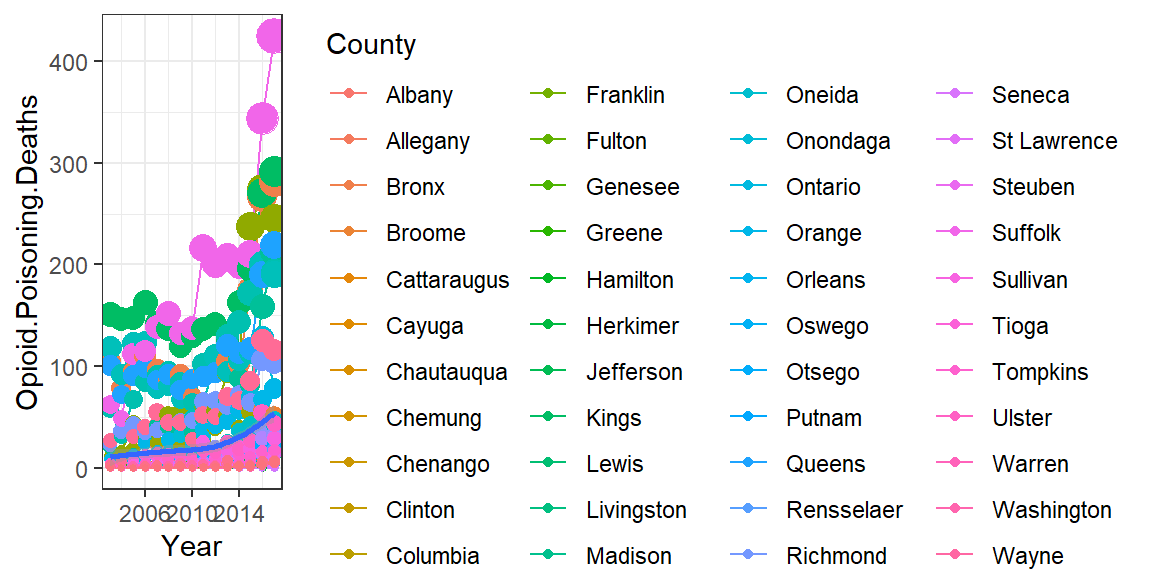
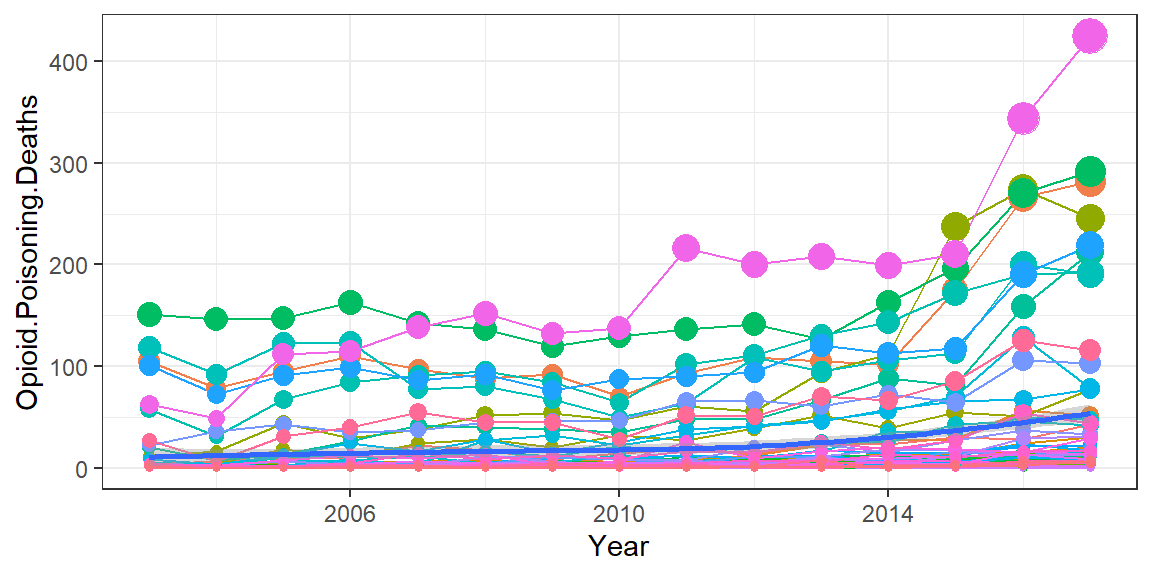
first_draft

diff --git a/docs/index.html b/docs/index.html
@@ -392,6 +392,7 @@ div.tocify {
 <pre class="r"><code>library(tidyverse)
 library(tidycensus)
 library(leaflet)
+library(mapview) 
 
 
 knitr::opts_chunk$set(cache=TRUE)  # cache the results for quick compiling</code></pre>
@@ -442,8 +443,9 @@ str(vital)</code></pre>
 <pre class="r"><code>ggplot (data = vital) +
     geom_line(aes(x = Year,  y = Opioid.Poisoning.Deaths, group = County, col = County)) + 
     geom_point(aes(x = Year,  y = Opioid.Poisoning.Deaths, group = County, col = County, size = Opioid.Poisoning.Deaths)) +
-    geom_smooth(aes(x = Year,  y = Opioid.Poisoning.Deaths))+
-    theme_bw()</code></pre>
+    geom_smooth(aes(x = Year,  y = Opioid.Poisoning.Deaths)) +
+    theme_bw() +
+    theme(legend.position = &quot;none&quot;)</code></pre>
 <pre><code>## `geom_smooth()` using method = &#39;loess&#39; and formula &#39;y ~ x&#39;</code></pre>
 <div class="figure">
 <img src="index_files/figure-html/unnamed-chunk-5-1.png" alt="Map of completely random data" width="576" />
@@ -451,10 +453,6 @@ str(vital)</code></pre>
 Map of completely random data
 </p>
 </div>
-<pre class="r"><code>data %&gt;% 
-  ggplot(aes(x=x,y=y,col=category))+
-  geom_point()</code></pre>
-<p><img src="index_files/figure-html/unnamed-chunk-6-1.png" width="672" /></p>
 </div>
 <div id="conclusions" class="section level1">
 <h1>Conclusions</h1>
